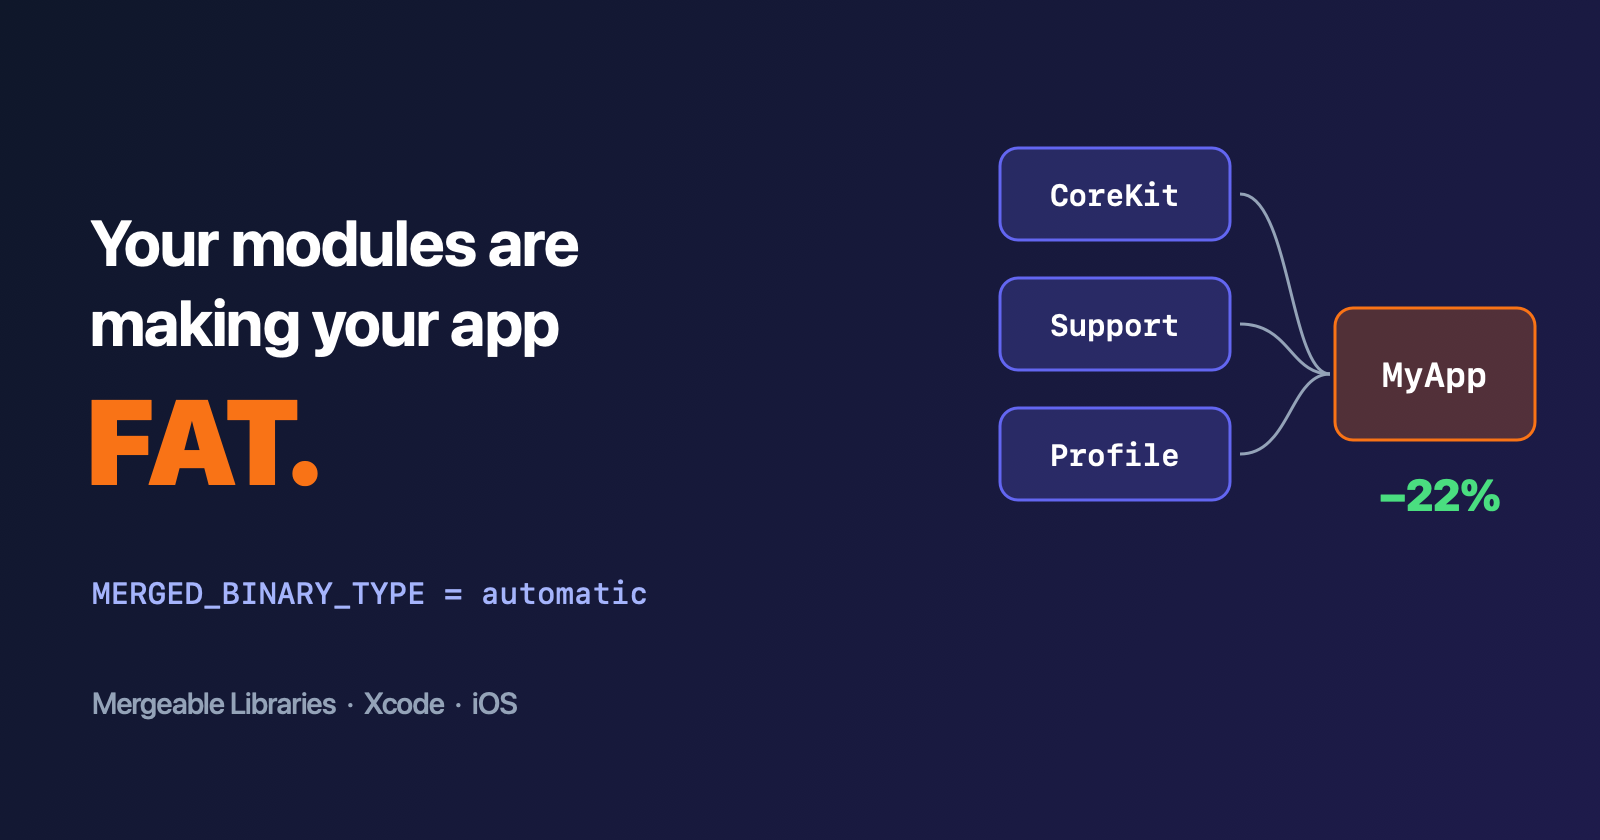
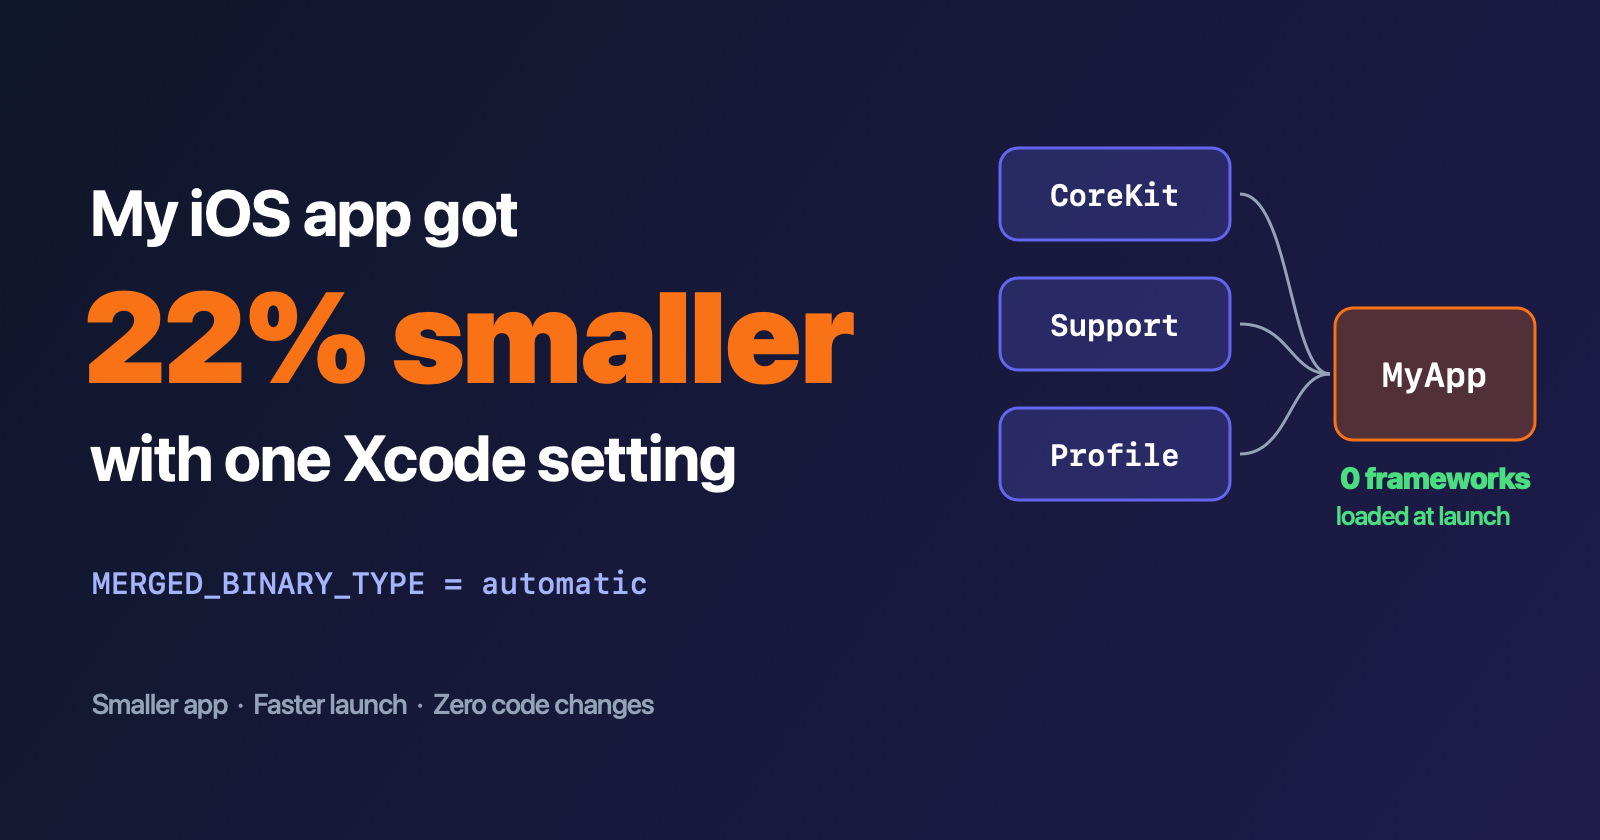
Retitle blog: one Xcode setting, launch-time angle, new cover

diff --git a/docs/mergeable-libraries-blog.md b/docs/mergeable-libraries-blog.md
@@ -11,7 +11,7 @@ This happened on a team I worked with, and it took us a week to crack. Here's th
 > - **Victim:** `MyApp`, freshly modularized
 > - **Symptom:** got bigger after we only *moved* code
 > - **Suspects:** ~~Xcode~~ · ~~the CI cache~~ · ~~Mercury in retrograde~~ · `public`
-> - **Fix:** two build settings, **22% smaller**
+> - **Fix:** one build setting, **22% smaller**, **0** frameworks loaded at launch
 
 ---
 
@@ -31,6 +31,8 @@ All three modules are plain dynamic frameworks, which is what Xcode gives you by
 That's a USB cable shipped in a microwave box.
 
 Every dynamic framework is split into four segments, and on arm64 each segment is padded to a 16 KB page, even if it's nearly empty. So each framework pays about **64 KB of packaging** before it holds any code. On top of that, `dyld` has to find, map, and bind every framework separately each time the app launches.
+
+Using CocoaPods with `use_frameworks!`, or dynamic SPM products? Then every dependency is one more passport check at airport security on every cold launch. That's why "I added a few pods and my launch got slower" is such a popular Stack Overflow question.
 
 ![This is fine](https://media.giphy.com/media/QMHoU66sBXqqLqYvGO/giphy.gif)
 
@@ -120,18 +122,16 @@ Dynamic frameworks build fast and launch slow. Static libraries launch fast and 
 
 ---
 
-## The Fix: Two Settings
+## The Fix: One Setting
+
+Select your app target, search Build Settings for **Create Merged Binary**, and set it to **Automatic**:
 
 ```text
-// App target: the easy way
+// App target
 MERGED_BINARY_TYPE = automatic
-
-// Or, for precise control
-MERGED_BINARY_TYPE = manual    // on the app target
-MERGEABLE_LIBRARY = YES        // on each framework to merge
 ```
 
-`automatic` merges every direct framework dependency built in your project. There's one gotcha: **only direct dependencies get merged.** If `CoreKit` reaches the app only through `SupportFeature`, link it to the app target explicitly.
+That's it. `automatic` merges every direct framework dependency built in your project. If you need precise control over what gets merged, use `MERGED_BINARY_TYPE = manual` on the app and `MERGEABLE_LIBRARY = YES` on each framework instead. There's one gotcha: **only direct dependencies get merged.** If `CoreKit` reaches the app only through `SupportFeature`, link it to the app target explicitly.
 
 ---
 
@@ -145,7 +145,7 @@ MERGEABLE_LIBRARY = YES        // on each framework to merge
 | Frameworks `dyld` loads | 3 | **0** |
 | Exported symbols | 3,518 | **1** |
 
-That took two build settings and zero code changes. The demo has three tiny frameworks. Real apps have dozens.
+That took one build setting and zero code changes. The demo has three tiny frameworks. Real apps have dozens.
 
 ---
 

diff --git a/README.md b/README.md
@@ -5,7 +5,7 @@ A tiny modular iOS app that shows two things with real numbers:
 1. **Why `public` makes your modules fat.** The same code, built once with `public` and once with `internal`.
 2. **What Xcode's mergeable libraries do to your app.** The same app, archived as plain dynamic frameworks vs merged.
 
-Companion code for the blog post *Your Modules Are Making Your iOS App Fat. Meet Mergeable Libraries.*
+Companion code for the blog post *My iOS App Got 22% Smaller With One Xcode Setting*
 
 ## Prerequisites
 
